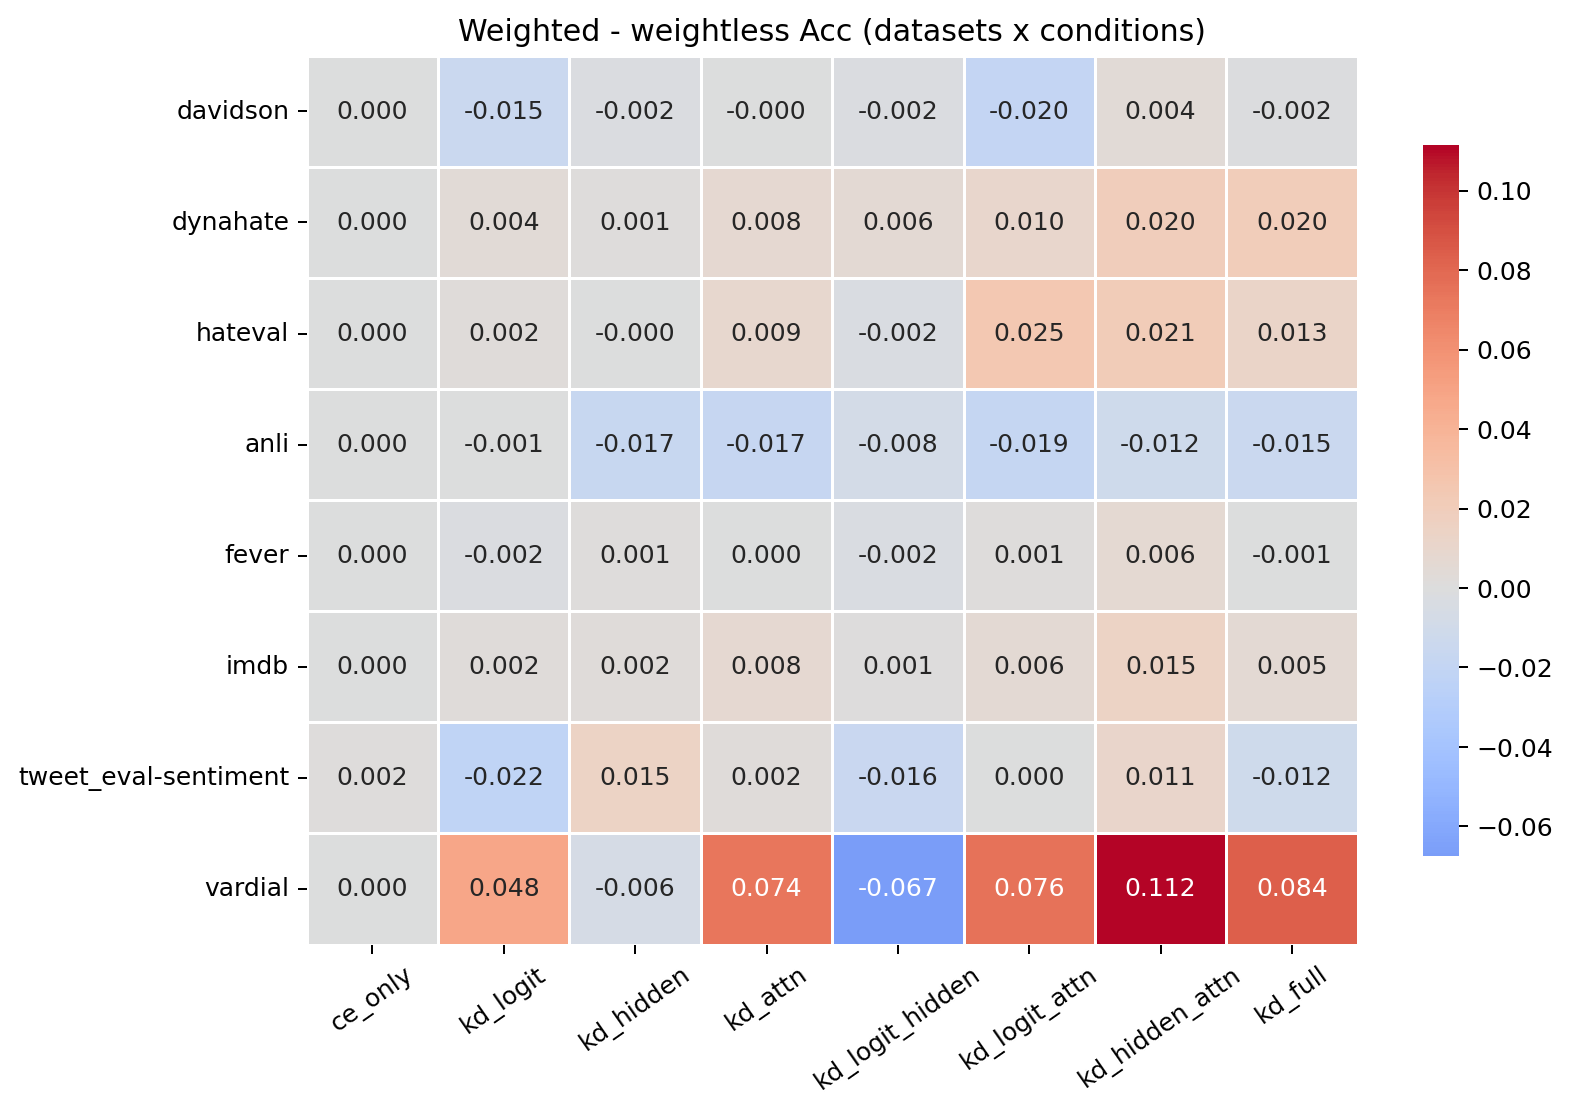
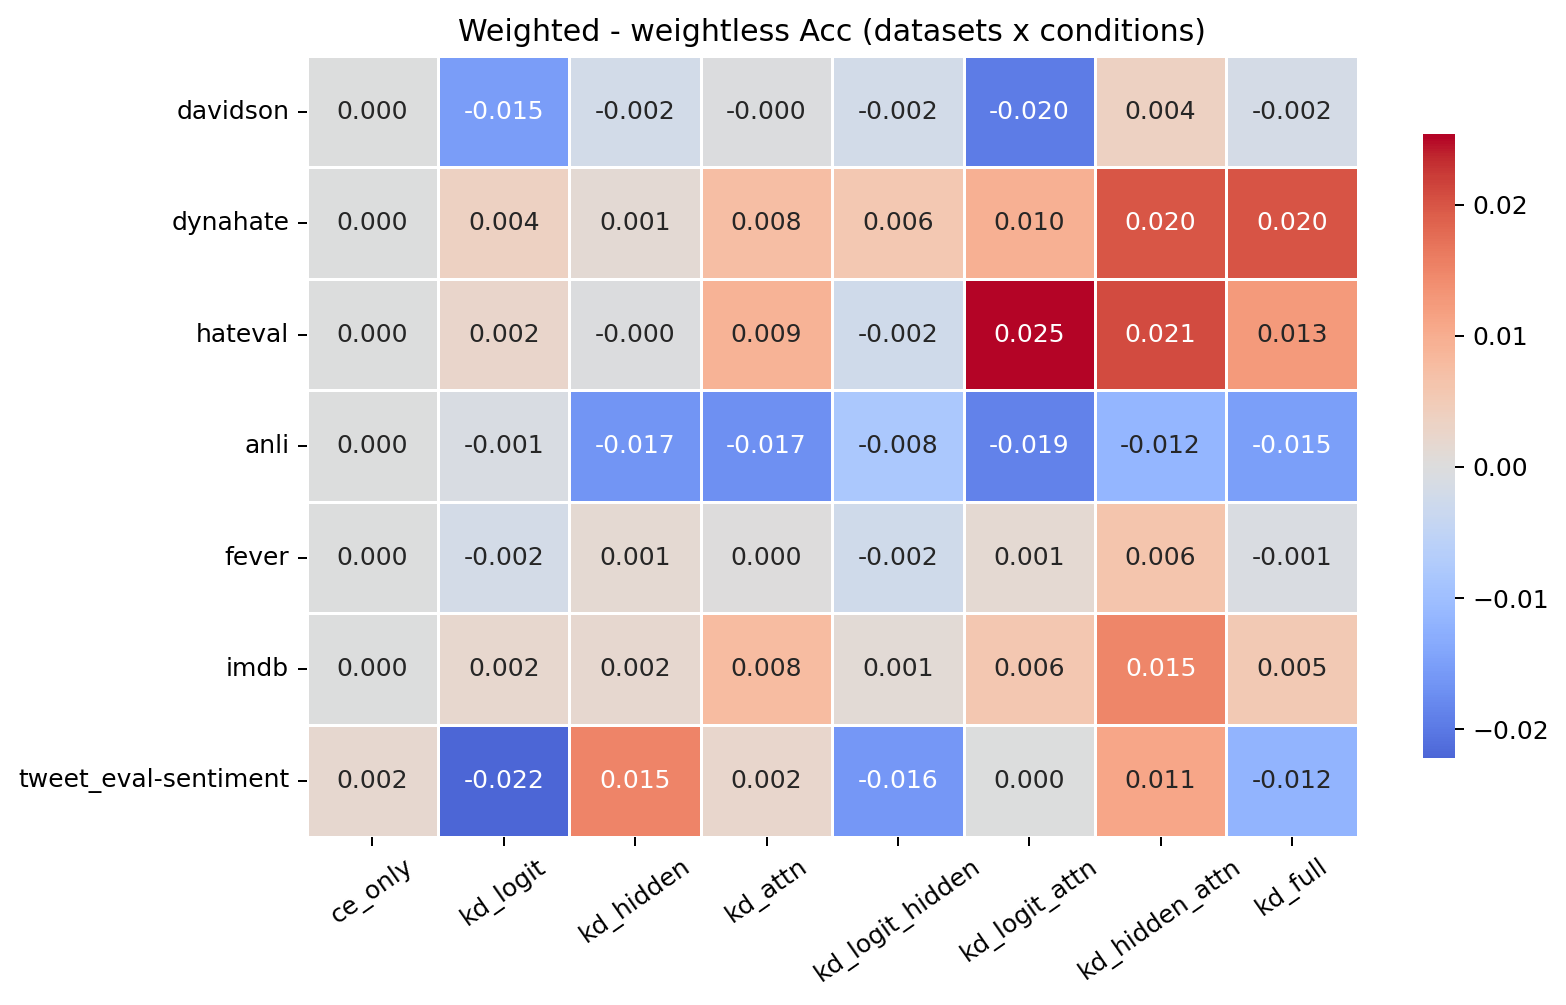
feat: trim delta heatmaps to F1/accuracy and drop vardial outlier
Remove the ECE delta heatmap and exclude the vardial row from the F1
and accuracy heatmaps so the shared color scale is not dominated by its
large swings. Both stay in the per-dataset tables; only the heatmaps
are affected.

diff --git a/scripts/07_compare_weighting.py b/scripts/07_compare_weighting.py
@@ -113,10 +113,18 @@ def _best_student_f1(comparison: pd.DataFrame, dataset: str, column: str) -> flo
     return float(rows.max(skipna=True))
 
 
+#: Metric columns excluded from the delta heatmaps (kept in the tables).
+HEATMAP_SKIP_METRICS = {"test_ece"}
+#: Datasets excluded from the delta heatmaps as outliers (kept in the tables).
+HEATMAP_SKIP_DATASETS = {"vardial"}
+
+
 def write_delta_figures(comparison: pd.DataFrame, out_dir: pathlib.Path) -> list[pathlib.Path]:
     """Write one datasets x conditions delta heatmap per curated metric."""
     written = []
     for column, label, _ in METRICS:
+        if column in HEATMAP_SKIP_METRICS:
+            continue
         matrix = _delta_matrix(comparison, f"delta_{column}")
         title = f"Weighted - weightless {label} (datasets x conditions)"
         written.extend(
@@ -128,7 +136,7 @@ def write_delta_figures(comparison: pd.DataFrame, out_dir: pathlib.Path) -> list
 def _delta_matrix(comparison: pd.DataFrame, value_column: str) -> pd.DataFrame:
     """Pivot a delta column into a dataset-row / condition-column matrix in canonical order."""
     matrix = comparison.pivot(index="dataset", columns="condition", values=value_column)
-    rows = [name for name in DATASET_ORDER if name in matrix.index]
+    rows = [name for name in DATASET_ORDER if name in matrix.index and name not in HEATMAP_SKIP_DATASETS]
     cols = [name for name in CONDITION_ORDER if name in matrix.columns]
     return matrix.reindex(index=rows, columns=cols)
 
@@ -305,8 +313,8 @@ def _figures_section(figures: list[pathlib.Path]) -> list[str]:
         "## Delta Heatmaps",
         "",
         "Per metric, weighted minus weightless across datasets (rows) and conditions",
-        "(columns). Warm = weighted is higher. For F1 and accuracy warm is better; for",
-        "ECE warm is **worse** (more miscalibrated).",
+        "(columns). Warm = weighted is higher, which is better for F1 and accuracy.",
+        "`vardial` is omitted as an outlier so the shared color scale stays readable.",
         "",
     ]
     for figure in figures:

diff --git a/comparison/COMPARISON.md b/comparison/COMPARISON.md
@@ -31,8 +31,8 @@ Best test macro-F1 over the 8 conditions per dataset, weightless vs weighted.
 ## Delta Heatmaps
 
 Per metric, weighted minus weightless across datasets (rows) and conditions
-(columns). Warm = weighted is higher. For F1 and accuracy warm is better; for
-ECE warm is **worse** (more miscalibrated).
+(columns). Warm = weighted is higher, which is better for F1 and accuracy.
+`vardial` is omitted as an outlier so the shared color scale stays readable.
 
 ### Δ macro f1
 
@@ -41,10 +41,6 @@ ECE warm is **worse** (more miscalibrated).
 ### Δ accuracy
 
 ![Δ accuracy](figures/delta_test_accuracy.png)
-
-### Δ ece
-
-![Δ ece](figures/delta_test_ece.png)
 
 ## `davidson`
 
